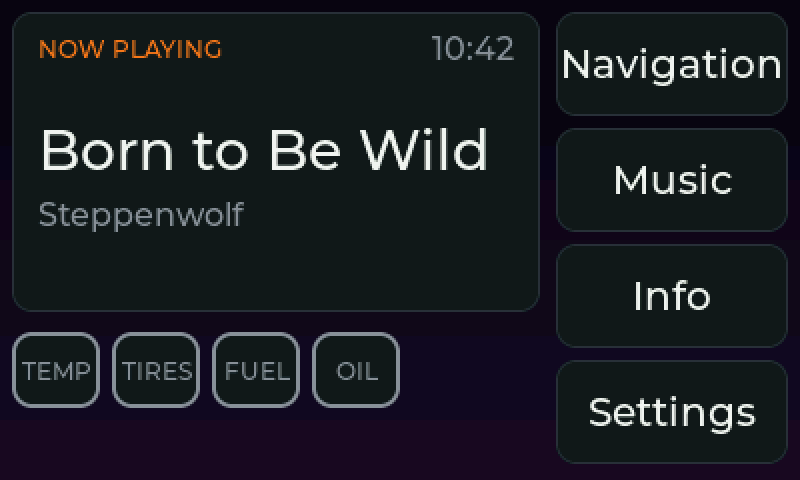
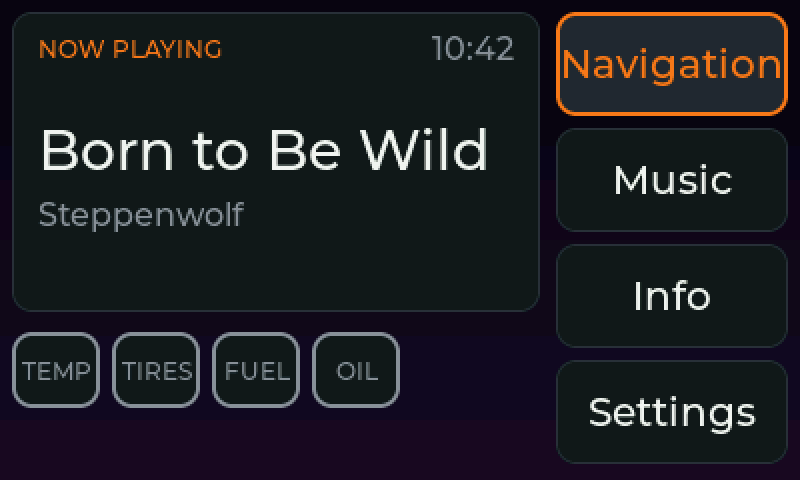
UI navigation: handlebar-accessible back/home, Music Pair -> Bluetooth
- Home page is now operable by the handlebars: Up/Down (or Left/Right)
  move the selection over the nav buttons, OK opens the page; the selected
  button is highlighted.
- The handlebar back/Home key (UI_KEY_BACK) now goes up one level (to the
  parent page), so every on-screen back button is reachable from the
  handlebars; from a top-level page that is Home.
- Removed the now-redundant back button from the main Settings page
  (back from Settings already returns Home).
- Music page: the Pair button opens the Bluetooth settings page instead of
  toggling pairable.
- Removed the Factory-EQ / DSP-status notes from the Audio settings page.

Changed region(s): [[0.6875, 0.0312, 1.0, 0.25], [0.7188, 0.0, 0.9688, 0.0312]]

diff --git a/software/hogtied-ui/src/ui.c b/software/hogtied-ui/src/ui.c
@@ -21,9 +21,52 @@ static lv_obj_t *pages[UI_PAGE_COUNT];
 static enum ui_page page;
 static void show_page(enum ui_page n);
 
+/* where the back / Home key goes from each page (one level up) */
+static const enum ui_page ui_parent[UI_PAGE_COUNT] = {
+	[UI_PAGE_HOME] = UI_PAGE_HOME,
+	[UI_PAGE_NAV] = UI_PAGE_HOME,
+	[UI_PAGE_MEDIA] = UI_PAGE_HOME,
+	[UI_PAGE_INFO] = UI_PAGE_HOME,
+	[UI_PAGE_SETTINGS] = UI_PAGE_HOME,
+	[UI_PAGE_AUDIO] = UI_PAGE_SETTINGS,
+	[UI_PAGE_EQ] = UI_PAGE_AUDIO,
+	[UI_PAGE_BLUETOOTH] = UI_PAGE_SETTINGS,
+};
+
 /* Home (audio): media box + nav buttons + status icons */
 static lv_obj_t *lbl_home_clock, *lbl_home_track, *lbl_home_src;
 static lv_obj_t *st_temp, *st_tire, *st_fuel, *st_oil;
+#define HOME_BTNS 4
+static lv_obj_t *home_btns[HOME_BTNS];
+static const enum ui_page home_targets[HOME_BTNS] = {
+	UI_PAGE_NAV, UI_PAGE_MEDIA, UI_PAGE_INFO, UI_PAGE_SETTINGS,
+};
+static int home_sel;
+
+static void home_highlight(void)
+{
+	for (int i = 0; i < HOME_BTNS; i++) {
+		bool on = i == home_sel;
+
+		lv_obj_set_style_border_width(home_btns[i], on ? 2 : 1, 0);
+		lv_obj_set_style_border_color(home_btns[i], on ? COL_ACCENT : COL_LINE, 0);
+		lv_obj_set_style_bg_color(home_btns[i], on ? COL_SURFACE_HI : COL_SURFACE, 0);
+		lv_obj_set_style_text_color(lv_obj_get_child(home_btns[i], 0),
+					    on ? COL_ACCENT : COL_TEXT, 0);
+	}
+}
+
+bool ui_home_key(enum ui_key key)
+{
+	switch (key) {
+	case UI_KEY_UP: case UI_KEY_LEFT: home_sel = (home_sel + HOME_BTNS - 1) % HOME_BTNS; break;
+	case UI_KEY_DOWN: case UI_KEY_RIGHT: home_sel = (home_sel + 1) % HOME_BTNS; break;
+	case UI_KEY_ENTER: show_page(home_targets[home_sel]); return true;
+	default: return false;
+	}
+	home_highlight();
+	return true;
+}
 /* Info: vehicle sensor outputs */
 static lv_obj_t *iv_ign, *iv_gear, *iv_engine, *iv_rpm, *iv_speed, *iv_ambient;
 static lv_obj_t *iv_oil, *iv_fuel, *iv_etemp, *iv_ctemp;
@@ -204,10 +247,11 @@ static void build_home(lv_obj_t *p)
 	st_oil = status_tile(p, 156, 166, "OIL");
 
 	/* navigation buttons (vertical, right) */
-	nav_button(p, 278, 6, 116, 52, "Navigation", UI_PAGE_NAV);
-	nav_button(p, 278, 64, 116, 52, "Music", UI_PAGE_MEDIA);
-	nav_button(p, 278, 122, 116, 52, "Info", UI_PAGE_INFO);
-	nav_button(p, 278, 180, 116, 52, "Settings", UI_PAGE_SETTINGS);
+	home_btns[0] = nav_button(p, 278, 6, 116, 52, "Navigation", UI_PAGE_NAV);
+	home_btns[1] = nav_button(p, 278, 64, 116, 52, "Music", UI_PAGE_MEDIA);
+	home_btns[2] = nav_button(p, 278, 122, 116, 52, "Info", UI_PAGE_INFO);
+	home_btns[3] = nav_button(p, 278, 180, 116, 52, "Settings", UI_PAGE_SETTINGS);
+	home_highlight();
 }
 
 /* ---- Info (sensor outputs) ---------------------------------------------- */
@@ -336,7 +380,6 @@ void ui_create(void)
 	/* Equalizer lives inside Audio settings */
 	nav_button(pages[UI_PAGE_AUDIO], 300, 206, 92, 30, "EQ", UI_PAGE_EQ);
 	/* back buttons through the settings hierarchy */
-	add_back(pages[UI_PAGE_SETTINGS], UI_PAGE_HOME);
 	add_back(pages[UI_PAGE_AUDIO], UI_PAGE_SETTINGS);
 	add_back(pages[UI_PAGE_EQ], UI_PAGE_AUDIO);
 	add_back(pages[UI_PAGE_BLUETOOTH], UI_PAGE_SETTINGS);
@@ -494,9 +537,11 @@ void ui_key(enum ui_key key)
 		return;
 	if (page == UI_PAGE_BLUETOOTH && ui_bt_key(key))
 		return;
-	/* the bezel / handlebar Home button returns to the Home page */
+	if (page == UI_PAGE_HOME && ui_home_key(key))
+		return;
+	/* the handlebar back / Home key goes up one level (Home from the top) */
 	if (key == UI_KEY_BACK)
-		show_page(UI_PAGE_HOME);
+		show_page(ui_parent[page]);
 }
 
 void ui_goto(enum ui_page p)

diff --git a/software/hogtied-ui/src/ui_audio.c b/software/hogtied-ui/src/ui_audio.c
@@ -48,7 +48,7 @@ static unsigned changes;
 
 static lv_obj_t *row[HBAS_AI_COUNT], *row_name[HBAS_AI_COUNT];
 static lv_obj_t *row_bar[HBAS_AI_COUNT], *row_val[HBAS_AI_COUNT];
-static lv_obj_t *lbl_eq, *lbl_dsp, *lbl_hint;
+static lv_obj_t *lbl_hint;
 
 static bool row_visible(int r)
 {
@@ -97,7 +97,6 @@ static void refresh(void)
 	struct hbas_audio_db db;
 	enum hbas_audio_output out = hbas_audio_output(&audio);
 	int y = ROW_Y0;
-	char eq[48];
 
 	for (int r = 0; r < HBAS_AI_COUNT; r++) {
 		bool vis = row_visible(r), hi = r == sel;
@@ -139,14 +138,6 @@ static void refresh(void)
 		lv_label_set_text_fmt(row_val[HBAS_AI_SPEED_VOLUME], "On  (+%d dB now)",
 				      audio.speed_boost_db);
 
-	hbas_audio_factory_eq(eq, sizeof(eq), &audio, bike_cfg, engine_running);
-	if (!strcmp(eq, HBAS_EQ_BUILTIN_FLAT))
-		snprintf(eq, sizeof(eq), "%s", audio.system == HBAS_SYS_CUSTOM && out == HBAS_OUT_SPEAKERS
-						 ? "flat (custom system)" : "flat (bike model ?)");
-	lv_label_set_text_fmt(lbl_eq, "Factory EQ, engine %s: %s",
-			      last_engine < 0 ? "?" : engine_running ? "on" : "off", eq);
-	lv_label_set_text(lbl_dsp, backend && backend->apply ? "DSP writes logged only (not sent yet)"
-					 : "DSP: no audio backend");
 	lv_label_set_text(lbl_hint, editing ? LV_SYMBOL_LEFT LV_SYMBOL_RIGHT " adjust  OK done"
 					    : LV_SYMBOL_UP LV_SYMBOL_DOWN " select  OK adjust");
 }
@@ -182,10 +173,6 @@ void ui_audio_build(lv_obj_t *p)
 	make_row(p, HBAS_AI_SYSTEM, false, 0, 0);
 	make_row(p, HBAS_AI_HEADSET, false, 0, 0);
 	make_row(p, HBAS_AI_SPEED_VOLUME, false, 0, 0);
-	lbl_eq = ui_label(p, &lv_font_montserrat_14, COL_DIM, "");
-	lv_obj_set_pos(lbl_eq, 12, 196);
-	lbl_dsp = ui_label(p, &lv_font_montserrat_14, COL_DIM, "");
-	lv_obj_set_pos(lbl_dsp, 12, 214);
 	lbl_hint = ui_label(p, &lv_font_montserrat_14, COL_DIM, "");
 	lv_obj_align(lbl_hint, LV_ALIGN_TOP_RIGHT, -12, 8);
 	refresh();

diff --git a/software/hogtied-ui/src/ui_media.c b/software/hogtied-ui/src/ui_media.c
@@ -116,7 +116,7 @@ static void refresh(void)
 
 	for (int i = 0; i < BTN_COUNT; i++) {
 		bool hi = i == sel;
-		bool enabled = i == BTN_PAIR ? bt.daemon && bt.agent : bt.player;
+		bool enabled = i == BTN_PAIR ? true : bt.player;
 
 		lv_label_set_text(btn_lbl[i], i == BTN_PLAY && bt.status == HBAS_BT_PLAYING
 					      ? LV_SYMBOL_PAUSE : sym[i]);
@@ -725,15 +725,11 @@ bool ui_media_key(enum ui_key key)
 	case UI_KEY_ENTER:
 		if (sel != BTN_PAIR && !bt.player)
 			break;                      /* greyed out: no phone controls */
-		if (sel == BTN_PAIR && !(bt.daemon && bt.agent))
-			break;                      /* PC: pair from its own settings */
 		switch (sel) {
 		case BTN_PREV: cmd("previous\n"); break;
 		case BTN_NEXT: cmd("next\n"); break;
 		case BTN_PLAY: cmd(bt.status == HBAS_BT_PLAYING ? "pause\n" : "play\n"); break;
-		case BTN_PAIR:
-			cmd(bt.pairable ? "pairable off\n" : "pairable on\n");
-			break;
+		case BTN_PAIR: ui_goto(UI_PAGE_BLUETOOTH); break;   /* -> Bluetooth settings */
 		}
 		break;
 	default:

diff --git a/software/hogtied-ui/src/main.c b/software/hogtied-ui/src/main.c
@@ -358,6 +358,7 @@ static int snapshot(const char *prefix, const char *map_dir, const char *map_sty
 		{ 22200, UI_PAGE_MEDIA, "", "05-media" },
 		{ 22320, -1, "R", "05b-radio" },
 		{ 22340, -1, "", "05c-radio-tuned" },
+		{ 22360, UI_PAGE_MEDIA, "LDDE", "05d-pair-nav" },
 		{ 22300, UI_PAGE_AUDIO, "", "06-audio" },
 		{ 22400, UI_PAGE_EQ, "", "07-eq" },
 		{ 23000, UI_PAGE_HOME, "", "08-home-warn" },       /* low fuel: FUEL turns amber */

diff --git a/software/hogtied-ui/src/ui.h b/software/hogtied-ui/src/ui.h
@@ -26,6 +26,7 @@ void ui_update(const struct hbas_vehicle *v);
 void ui_key(enum ui_key key);
 enum ui_page ui_current_page(void);
 void ui_goto(enum ui_page page);              /* direct navigation (tests/snapshots) */
+bool ui_home_key(enum ui_key key);
 
 /* Audio: where settings go (NULL = nowhere), and bike facts that shape it. */
 void ui_set_audio_backend(const struct hbas_audio_backend *b);
